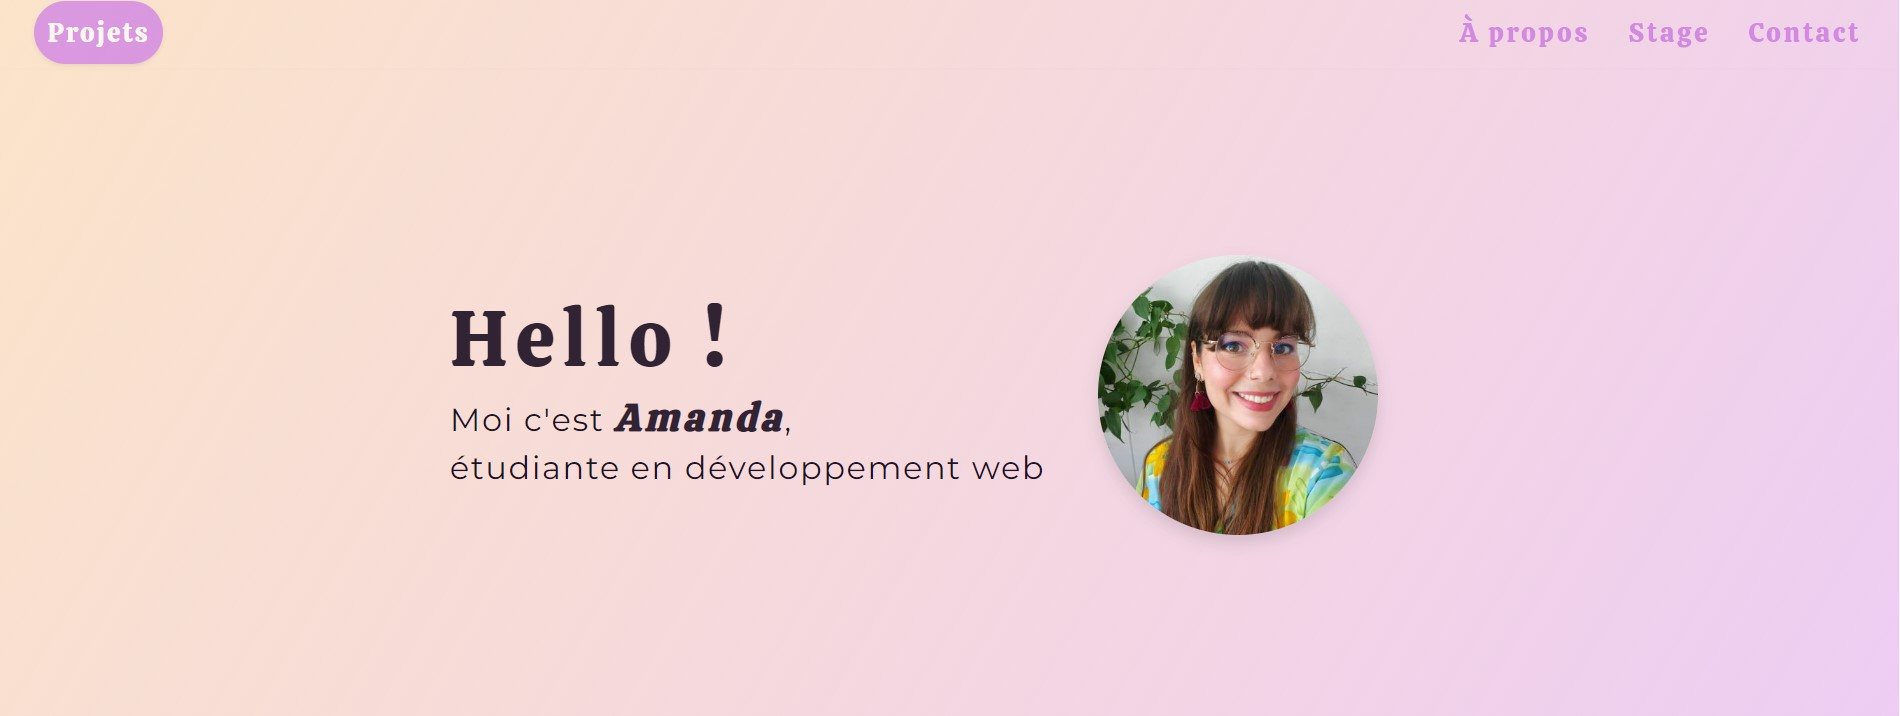
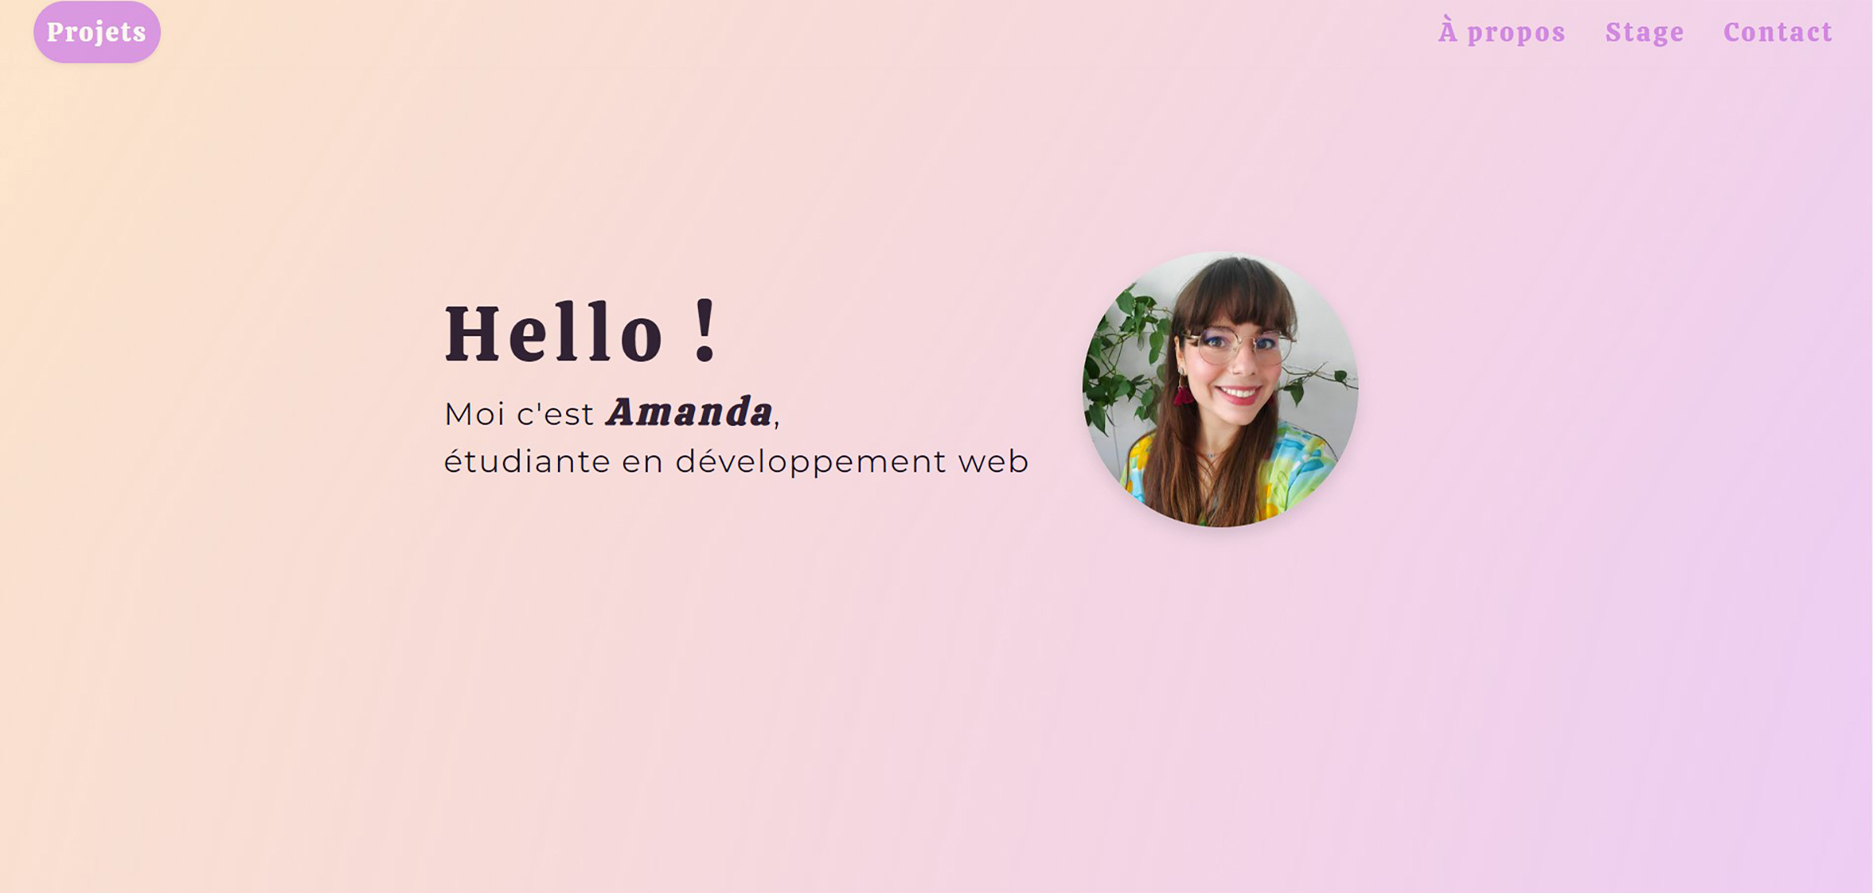
Go live

diff --git a/index.html b/index.html
@@ -23,7 +23,6 @@
   <div class="dropdown">
     <a href="#projets" class="dropbtn shadow-sm">Projets</a>
     <div class="dropdown-content">
-      <a href="https://heryprieto1.hosting.unilim.fr/UEL102/index.html" target="_blank">Exercice 1</a>
       <a href="https://heryprieto1.hosting.unilim.fr/UEL104/Zoning/index.html" target="_blank">Zoning</a>
       <a href="https://heryprieto1.hosting.unilim.fr/UEL111/" target="_blank">Wordpress</a>
       <a href="https://heryprieto1.hosting.unilim.fr/UEL104/Mini-site/index.html" target="_blank">Mini site</a>
@@ -31,7 +30,7 @@
   </div>
 
 <a class="navbar" href="#apropos">À propos</a>
-<a class="navbar" href="#stage">Stage</a>
+<!-- <a class="navbar" href="#stage">Stage</a> -->
 <a class="navbar" href="#contact">Contact</a>
 </nav>
 
@@ -39,8 +38,8 @@
 <section class="hero shadow-sm">
   <div class="d-flex align-items-center h-100">
   <div class="flex-column">
-    <h1>Hello !</h1>
-    <h2>Moi c'est <strong class="amanda">Amanda</strong>, <br> étudiante en développement web</h2>
+    <h1 id="hello">Hello !</h1>
+    <h2>Moi c'est Amanda, <br> étudiante en développement web</h2>
   </div>
   <div>
     <img src="./media/profilpic.jpg" class="img-fluid rounded-circle shadow" alt="Une photo d'Amanda Héry-Prieto">  
@@ -52,38 +51,38 @@
 <!--Projets-->
 <section class="projets">
 
-<h1 class="d-flex">Projets</h1>
+<h3 class="d-flex">Projets</h3>
 
 <div class="d-flex h-100 w-100">
 
   <div class="p-5">
     <a href="http://s144644046.onlinehome.fr/l104-22/hery-prieto/" target="_blank">
-    <h3 class="d-flex">Mini-site</h3>
-    <img src="./media/minisite.jpg" alt="Une capture d'écran de mon mini-site." class="img-fluid">
+    <h4 class="d-flex">Mini-site</h4>
+    <img src="./media/minisite.jpg" alt="Une capture d'écran de mon mini-site." class="img-fluid images">
     </a>
     <p>Ce projet est le premier site que j’ai produit, il est codé complétement à la main. Je me suis beaucoup amusé avec cet exercice réalisé dans le cadre de ma formation, au sujet d’une entreprise de mon choix. Avec ce projet, j’ai eu la joie de remporter le concours du meilleur mini-site, organisé au sein de ma promotion.</p>
   </div>
 
   <div class="p-5">
     <a href="https://heryprieto1.hosting.unilim.fr/UEL104/Zoning/index.html" target="_blank">
-      <h3 class="d-flex">Zoning</h3>
-      <img src="./media/zoning.jpg" alt="Une capture d'écran de l'exercice zoning." class="img-fluid">
+      <h4 class="d-flex">Zoning</h4>
+      <img src="./media/zoning.jpg" alt="Une capture d'écran de l'exercice zoning." class="img-fluid images">
     </a>
     <p>Pour cet exercice de groupe, nous avons réalisé dans un premier temps, une analyse de <a href="/media/template.jpg" target="blank">cette maquette</a>. Nous avons ensuite collaboré pour reproduire au mieux le modèle : j’ai pour ma part produit l’ensemble du code html, ainsi que le code css du premier tiers de la page. J’ai également coordoné le travail de groupe et harmonisé le résultat final. </p>
   </div>
 
   <div class="p-5"> 
     <a href="https://heryprieto1.hosting.unilim.fr/UEL111/" target="_blank">
-      <h3 class="d-flex">Wordpress</h3>
-      <img src="./media/wordpress.jpg" alt="Une capture d'écran de mon Wordpress." class="img-fluid">
+      <h4 class="d-flex">Wordpress</h4>
+      <img src="./media/wordpress.jpg" alt="Une capture d'écran de mon Wordpress." class="img-fluid images">
     </a>
     <p>Ce site Wordpress est un projet filé sur toute l’année. Il est destiné à accueillir mon rapport de stage à la fin du stage de cette première année. Ce projet me donne l’opportunié de me familiariser avec les CMS, les plugins et le SEO. Le vpn de l’université est cependant nécessaire à l’accès de ce Wordpress.</p>
   </div>
 
   <div class="p-5"> 
       <a href="https://heryprieto1.hosting.unilim.fr/UEL111/" target="_blank">
-        <h3 class="d-flex">Portfolio</h3>
-      <img src="./media/portfolio.jpg" alt="Une capture d'écran de mon Wordpress." class="img-fluid">
+        <h4 class="d-flex">Portfolio</h4>
+      <img src="./media/portfolio.jpg" alt="Une capture d'écran de mon Wordpress." class="img-fluid images">
       </a>
       <p>Ce site one page est un projet en constante évolution. C’est un terrain de jeu idéal pour expérimenter des éléments qui ne sont pas pour le moment abordés via ma formation tels que bootstrap ou github. Ce projet m'a également donné l'occasion de jouer avec des designs qui me plaisent, notamment en utilisant des couleurs et une esthétique inspirée des années 70.</p>
     </div>
@@ -94,7 +93,7 @@
 
 <section class="swirl">
 <div id="apropos">
-<h1 class="d-flex">À propos</h1>
+<h3 class="d-flex">À propos</h3>
 <p>
   J’ai 29 ans, je suis en reconversion professionnelle et je suis animée par l’envie d’apprendre.</p> 
   <p>Aventurière dans l’âme, j’ai eu la chance d’explorer et de vivre aux quatres coins du monde. J’y ai travaillé avec des enfants et des ados, en auberge de jeunesse et en call center, en grande entreprise et en freelance. 
@@ -116,7 +115,7 @@
 -->
 
 <section id="contact">
-<h1 class="d-flex">Contact</h1>
+<h3 class="d-flex">Contact</h3>
 
 <div class="email">
 <div>

diff --git a/styles.css b/styles.css
@@ -1,18 +1,20 @@
-@import url('https://fonts.googleapis.com/css2?family=Calistoga&family=Montserrat:wght@300;400&display=swap');
-
+/* @import url('https://fonts.googleapis.com/css2?family=Calistoga&family=Montserrat:wght@300;400&display=swap');
+*/
+@import url('https://fonts.googleapis.com/css2?family=Poppins&family=Shrikhand&display=swap');
 body {
-    font-family: 'Montserrat', sans-serif;
-    background-color: rgba(250, 235, 215, 0.084);
+    font-family: 'Poppins', sans-serif;
+    background-color: #fffcf1f0;
     color: #231026;
 }
 
 .hero {
-    height: 70vh;
+    height: 80vh;   
     }
 
     .gradient {
-      background-image: linear-gradient(120deg, #f9d9b2af 0%, #db95e976 100%);
-    }
+      background-color: #907ccc75;
+      color: #faf8eff0;
+      }  
 
 .d-flex {
     justify-content: center;
@@ -28,36 +30,37 @@ body {
 }
 
 h1 {
-    font-size: 5em;
-    font-family: 'Calistoga', cursive;
+    font-size: 6em;
+    font-family: 'Shrikhand', cursive;
     letter-spacing: 0.1em;
-    color: #312334;
+    color: #fffcf1f0;
+} 
+
+h3 {
+    font-size: 4em;
+    font-family: 'Shrikhand', cursive;
+    letter-spacing: 0.1em;
+    color: #342036;
 }
 
-h2  {
+h4  {
+    font-weight: bold;
     line-height: 1.5em;
     letter-spacing: 0.05em;
-}
-
-.amanda {
-    font-family: 'Calistoga', cursive;
-    font-style: italic;
-    letter-spacing: 0.1em;
-    font-size: larger;
-    color: #312334;
+    margin-bottom: 10%;
 }
 
 .navbar {
     justify-content: flex-end;
-    font-family: 'Calistoga', cursive;
-    color: #d389e2;
+    color: #8370bd;
+    font-weight: bold;
     font-size: 1.3em;
     letter-spacing: 0.1em;
 }
 
 a {
     text-decoration: none;
-    color: #d389e2;
+    color: #a38ce7;
 }
 
 a:hover {
@@ -77,8 +80,15 @@ section {
     justify-content: center;
 }
 
+.images {
+  width: 18vw;
+  margin: auto;
+  margin-bottom: 4%;
+}
+
 p {
   text-align: justify;
+  margin-top: 5%;
 }
 
 
@@ -86,7 +96,7 @@ p {
 
 /* Dropdown Button */
 .dropbtn {
-    background-color: #d389e2d7;
+    background-color: #a38ce7;
     color: #fffcf1f0;
     padding: 0.5em;
     border: none;
@@ -109,13 +119,12 @@ p {
     min-width: 160px;
     box-shadow: 0px 8px 16px 0px rgba(0,0,0,0.2);
     z-index: 1;
-    font-family: 'Montserrat', sans-serif;
     font-size: smaller;
   }
   
   /* Links inside the dropdown */
   .dropdown-content a {
-    color: black;
+    color: #342036;
     padding: 12px 16px;
     text-decoration: none;
     display: block;
@@ -153,11 +162,11 @@ p {
 
   .btn {
     background-color: #d389e2d7;
-    padding: 0.5em;
+    padding: 0.1em;
     border: none;
     border-radius: 50px;
-    font-size: 1.5em;
-    font-family: 'Calistoga', cursive;
+    font-size: 2em;
+    font-family: 'Shrikhand', cursive;
     letter-spacing: 0.1em;
     display: flex;
     justify-content: center;
